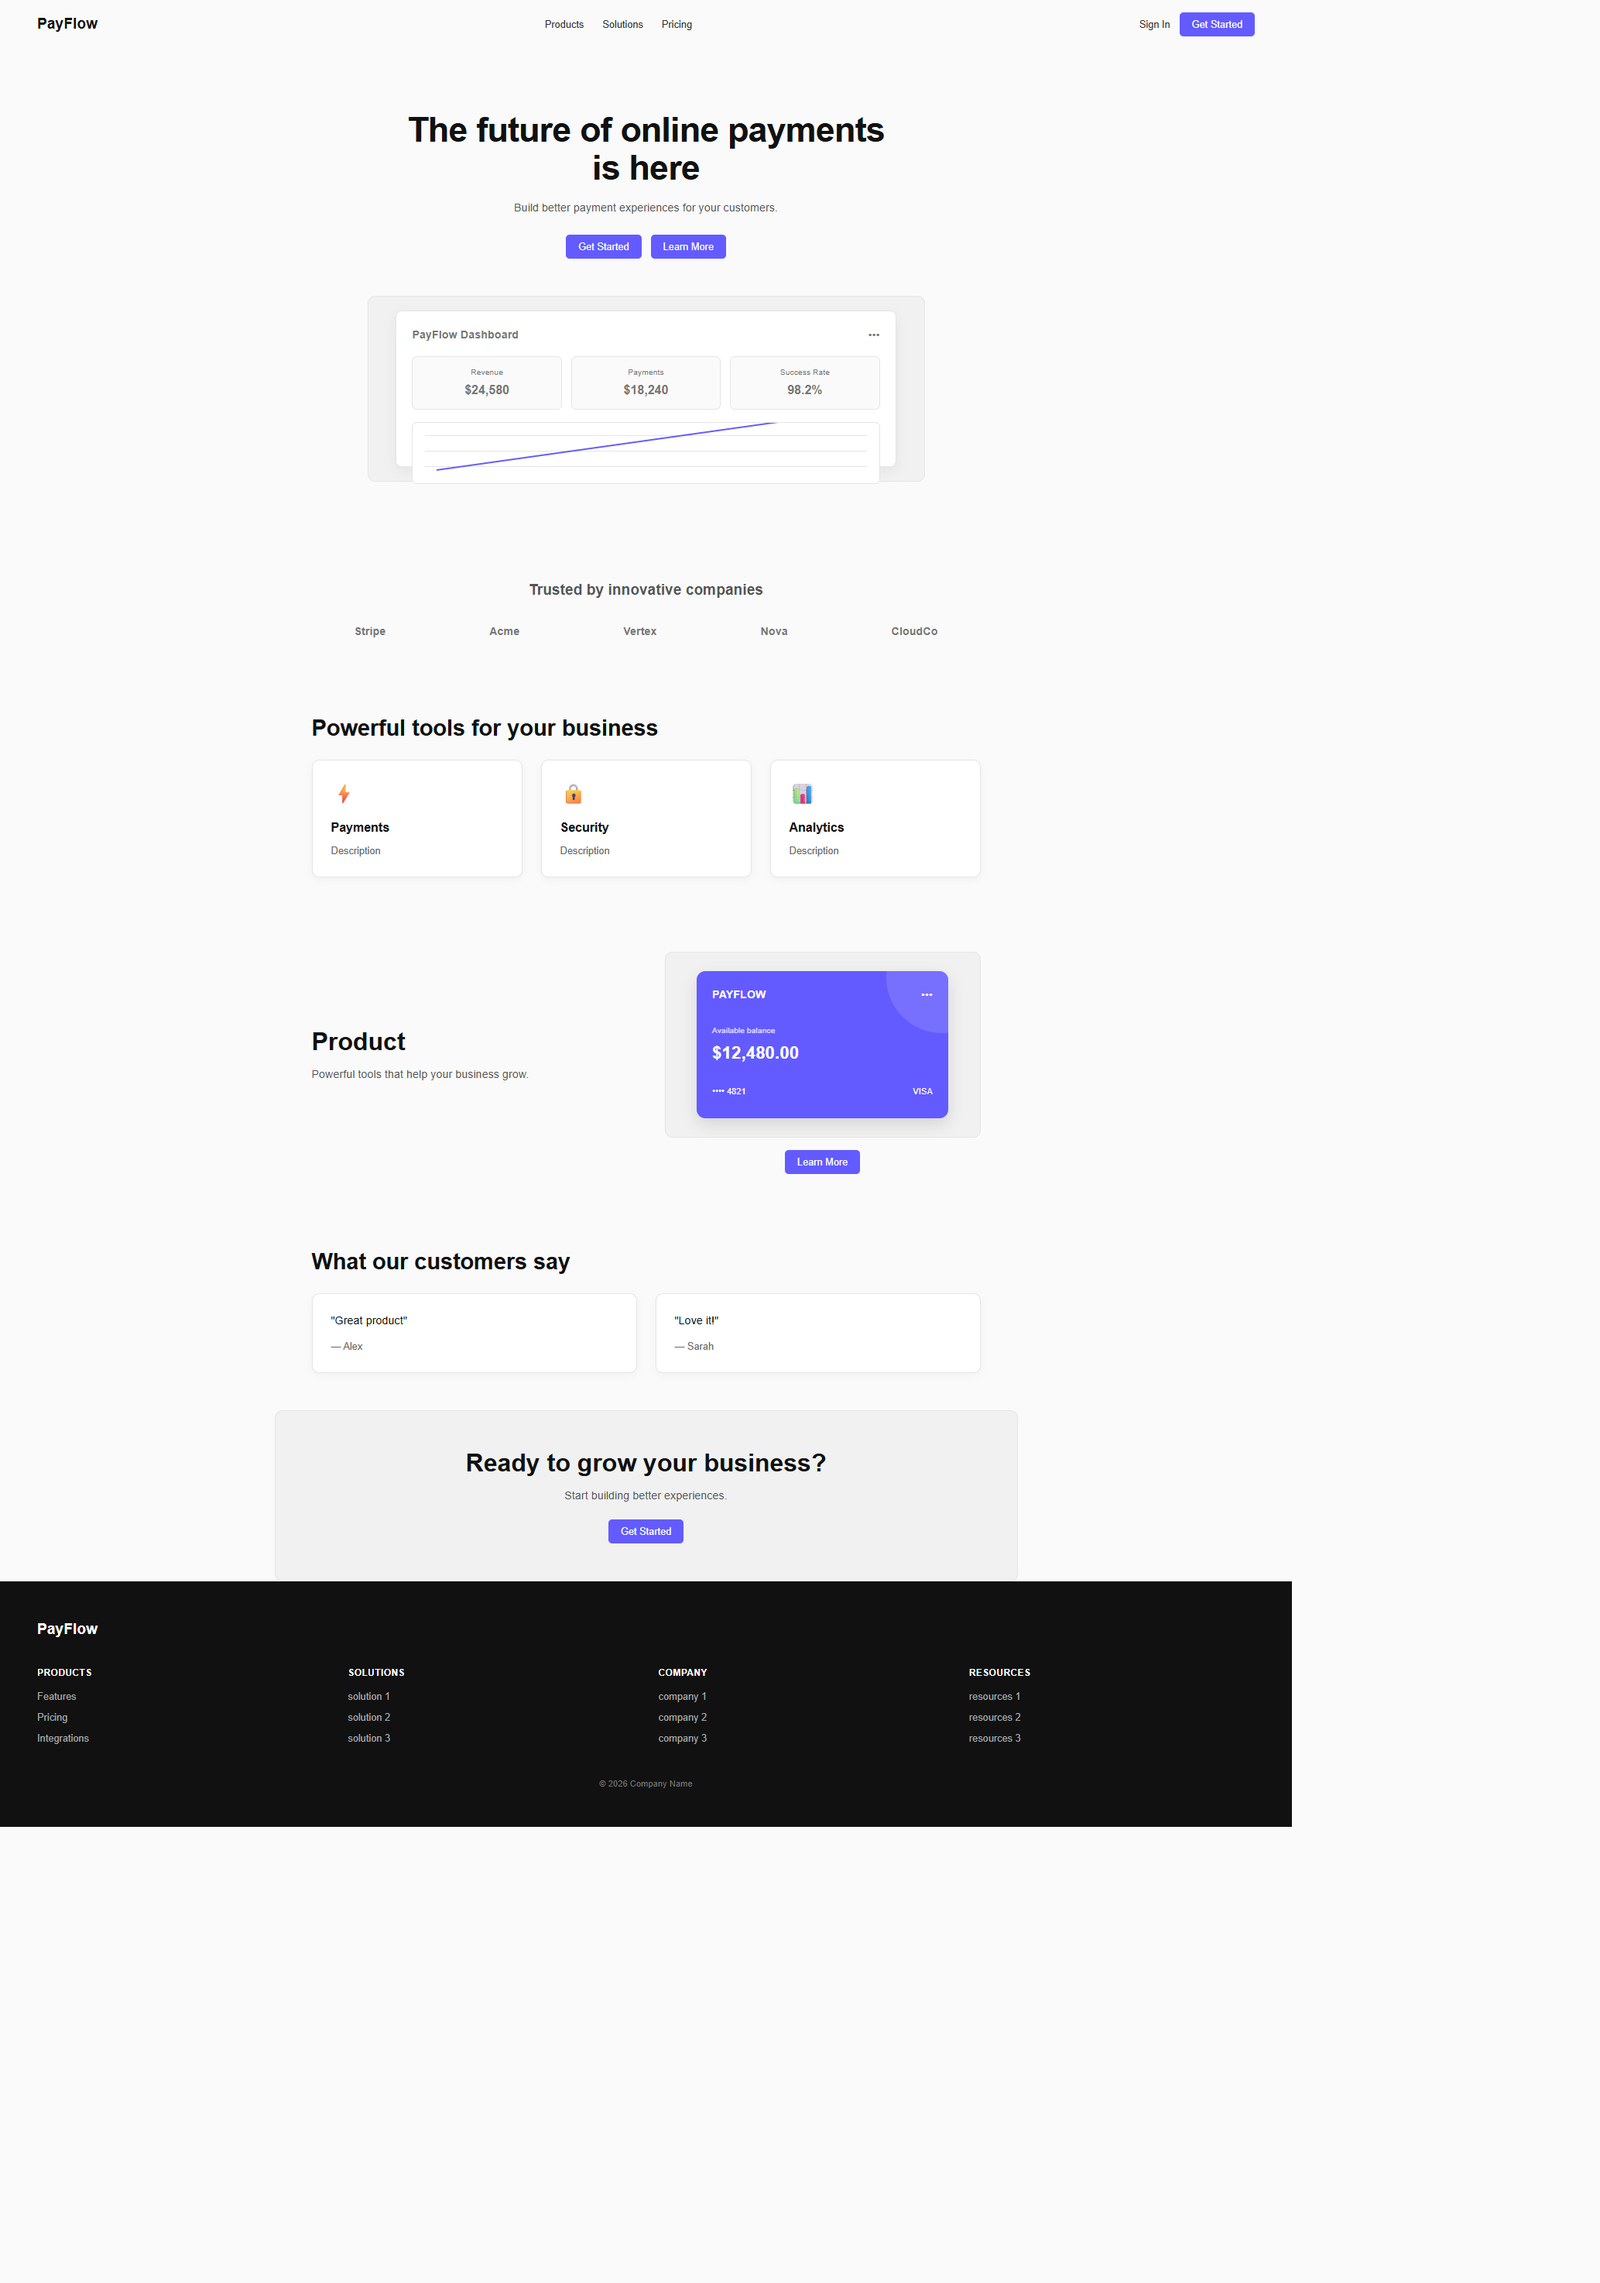
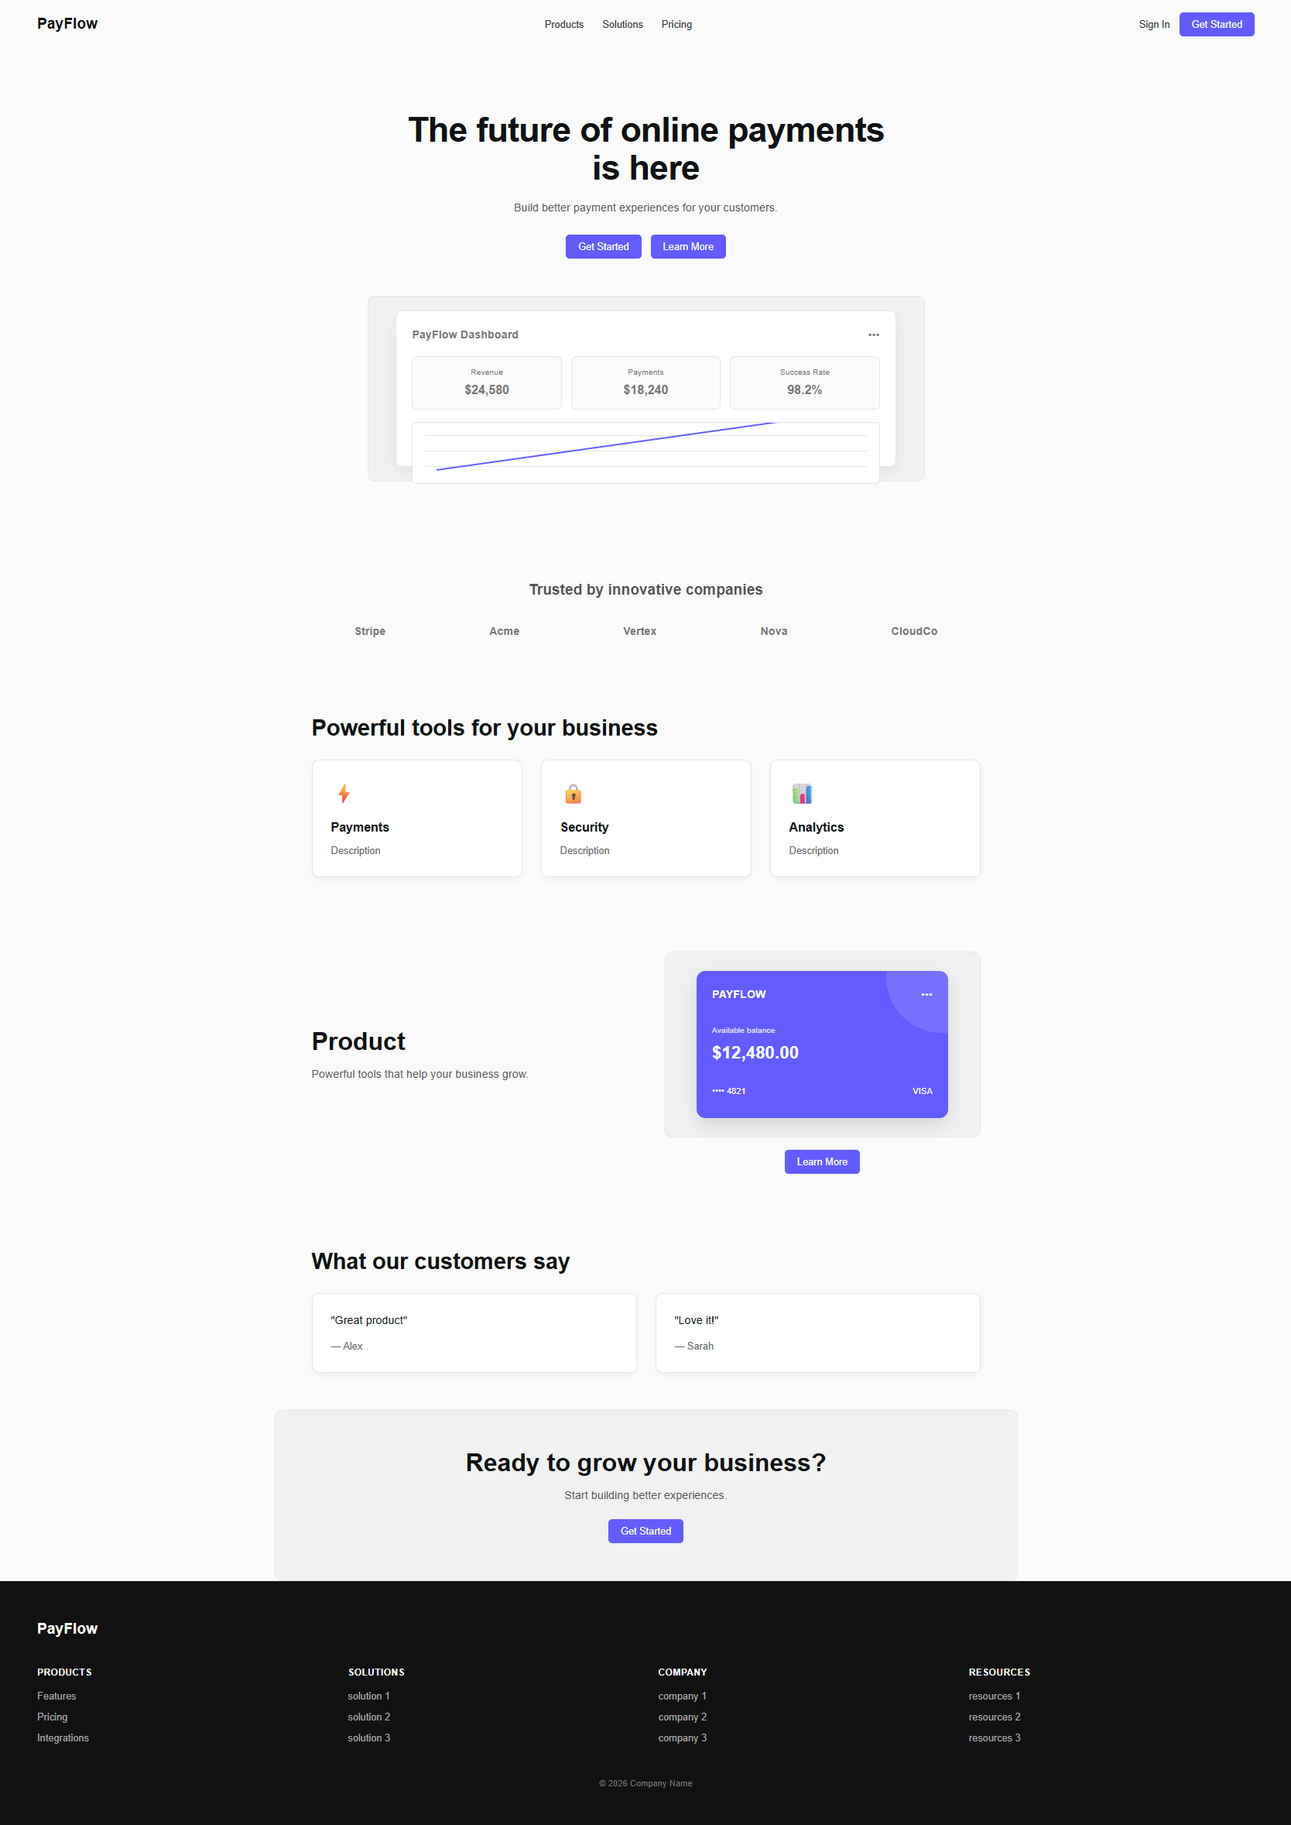
Added live demo link & disclaimer to README. Desktop photo fixed.

diff --git a/README.md b/README.md
@@ -4,7 +4,7 @@ A responsive company website landing page built from scratch using **HTML5 and C
 
 ## 🚀 Live Demo
 
-Coming soon.
+[View the live website](https://sktawfiq.github.io/company-website-clone/)
 
 ## 📸 Screenshots
 
@@ -90,3 +90,7 @@ No license has been added yet.
 ## 🔗 GitHub Repository
 
 This project is available on GitHub.
+
+## 📌 Disclaimer
+
+This project was created for educational purposes as part of my web development bootcamp. It is not affiliated with or endorsed by any real company
